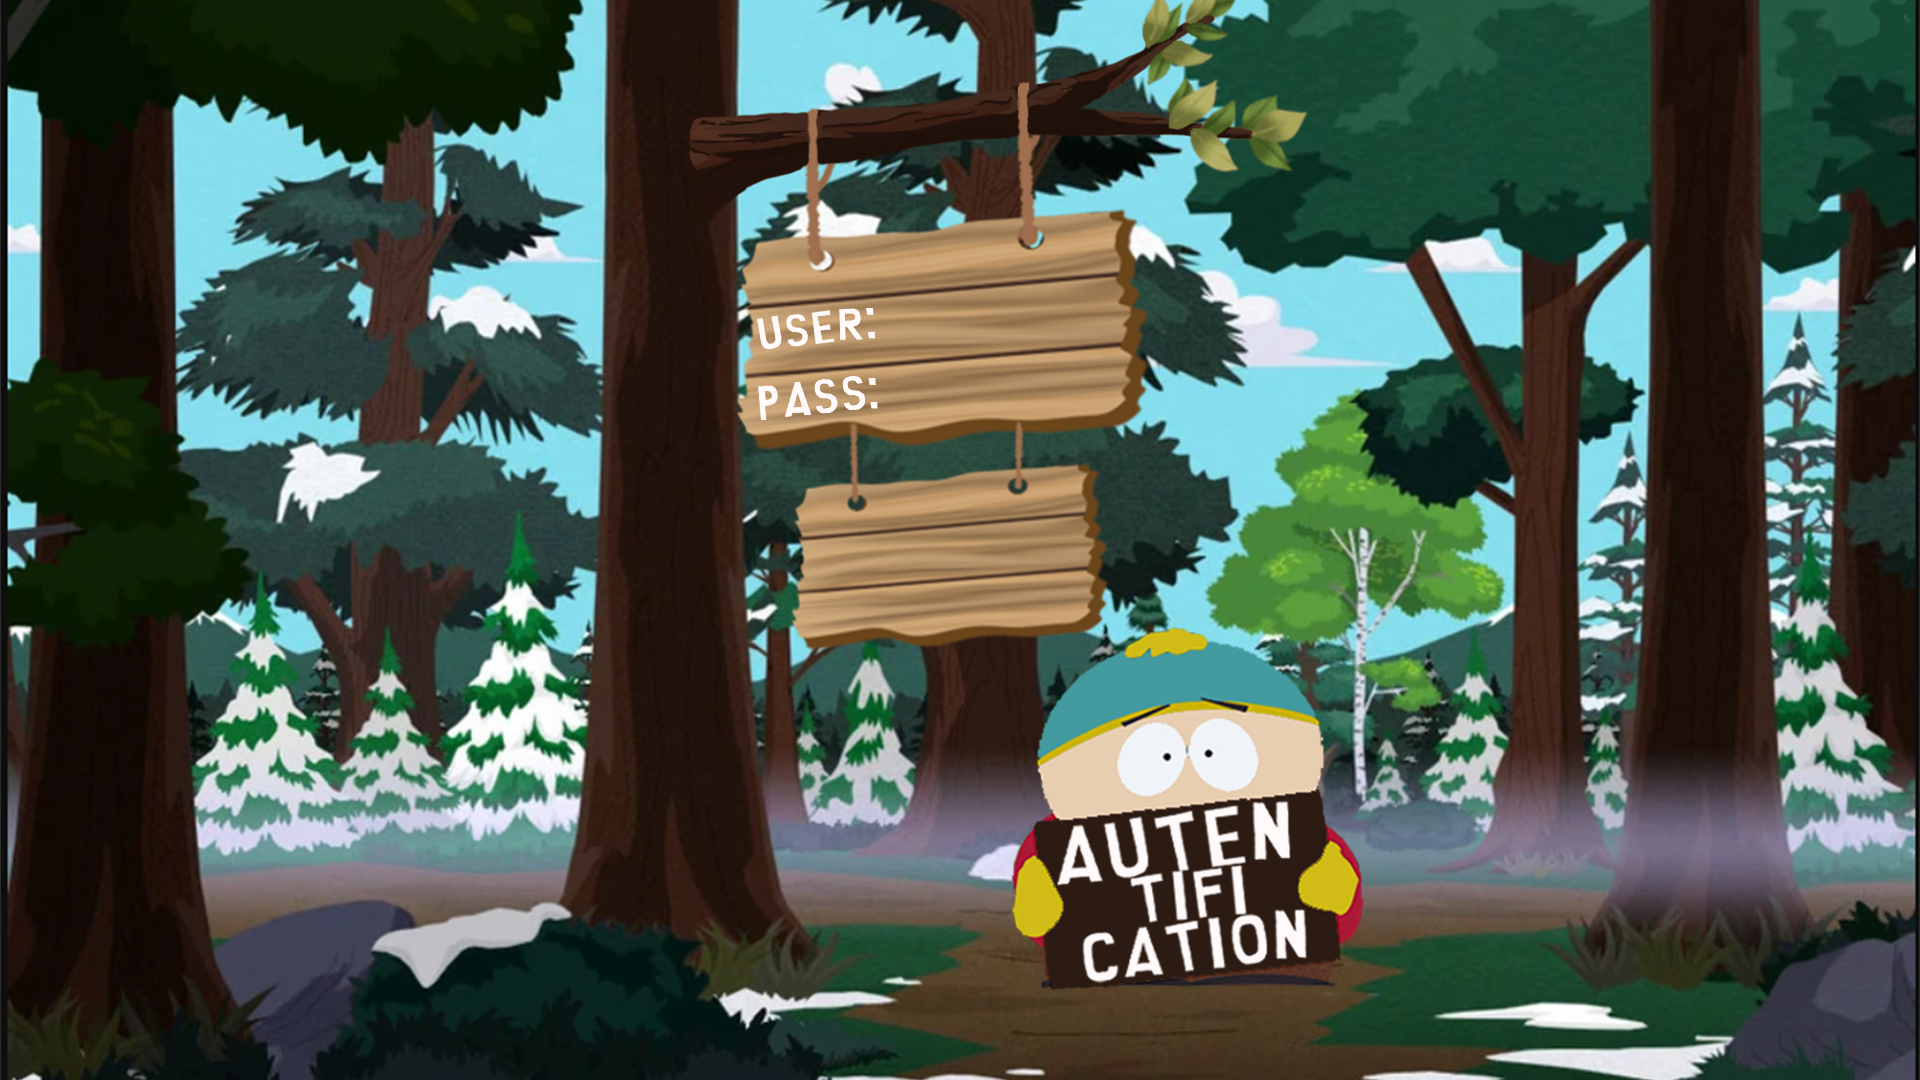
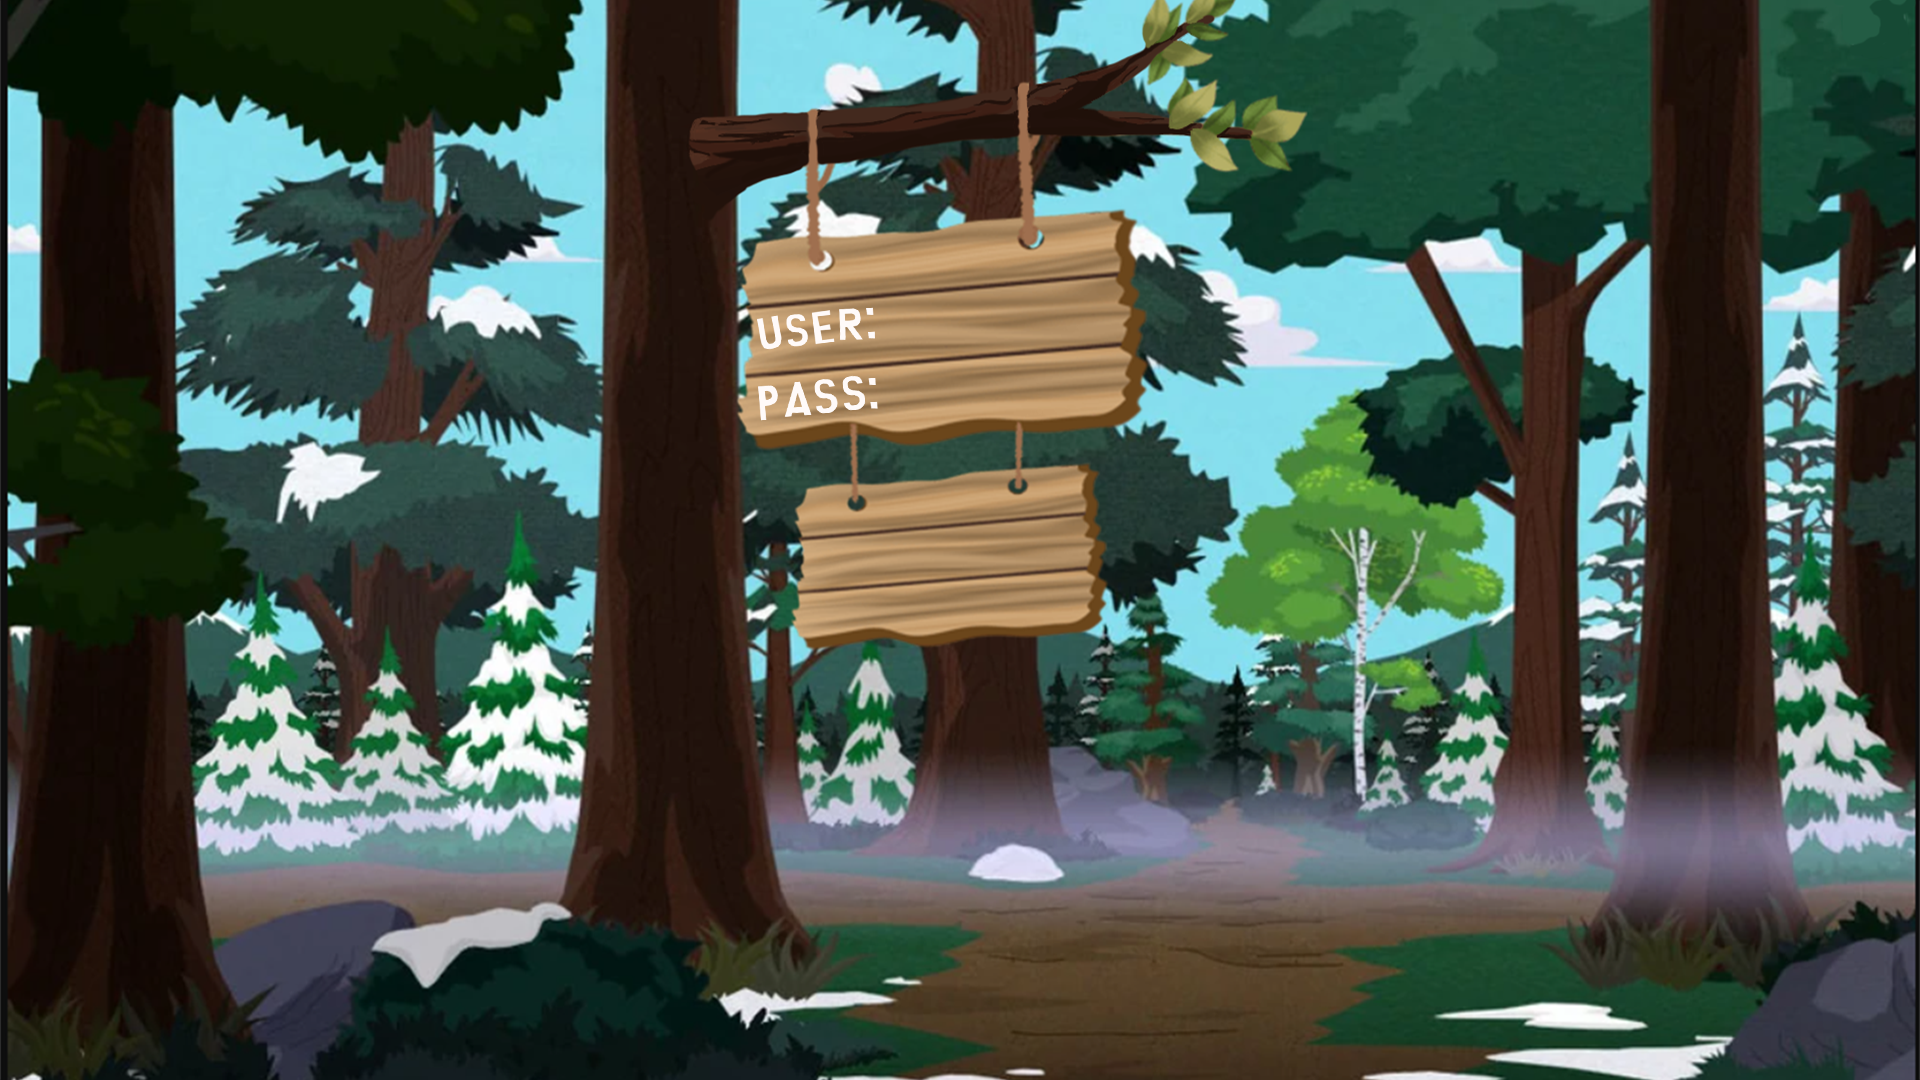
pequeños avances de algunas ideas e insercion de imagenes para usar proximamente

Changed region(s): [[0.5, 0.5806, 0.7188, 0.9167]]

diff --git a/src/main/resources/templates/credentials/LoginCredentials.html b/src/main/resources/templates/credentials/LoginCredentials.html
@@ -3,9 +3,9 @@
 <head>
     <meta charset="UTF-8">
     <link rel="stylesheet" th:href="@{css/bootstrap.min.css}">
-    <link rel="stylesheet" th:href="@{css/style_Login.css}">
+    <link rel="stylesheet" th:href="@{css/style_LoginUser.css}">
     <meta name="viewport" content="width=device-width, initial-scale=1">
-    <title>Iniciar sesion</title>
+    <title>Sign In</title>
 </head>
 <body class="body_login--background">
 <div class="container">
@@ -31,7 +31,7 @@
                 <div class="row">
                     <div class="col-sm-2">
                             <button type="submit" >
-                                <img th:src="@{images/saveUserButton.png}" id="body_login--buttonRotation" class="body_login--button">
+                                <img th:src="@{images/signInText.png}" id="body_login--buttonRotation" class="body_login--button">
                             </button>
 
                     </div>
@@ -41,6 +41,5 @@
         </div>
     </div>
 </div>
-
 </body>
 </html>

diff --git a/src/main/resources/static/css/style_loginUser.css b/src/main/resources/static/css/style_loginUser.css
@@ -1,5 +1,5 @@
 .body_login--background{
-    background-image: url('../images/panelAutentification.png');
+    background-image: url('../images/backgroundLogin.png');
     background-repeat: no-repeat;
     background-size: 100% 100%;
     background-attachment: fixed;
@@ -8,27 +8,30 @@
 
 #user{
     position: fixed;
-    top:37%;
-    left:42%;
-    width:33%;
+    top:25.5%;
+    left:45%;
+    width:16%;
+    rotate: 356deg;
+
 }
 
 #pass{
     position: fixed;
-    top:50%;
-    left:42%;
-    width:33%;
+    top:32%;
+    left:45%;
+    width:16%;
+    rotate: 356deg;
 }
 
 .body_login--button{
     position: fixed;
-    top: 67%;
-    left: 42.5%;
+    top: 48.5%;
+    left: 43%;
     width: 12%;
 }
 
 #body_login--buttonRotation{
-    rotate: 354deg;
+    rotate: 356deg;
 }
 
 .form-control{

diff --git a/src/main/resources/templates/credentials/LoginCredentialsAdmin.html b/src/main/resources/templates/credentials/LoginCredentialsAdmin.html
@@ -2,7 +2,8 @@
 <html lang="es" xmlns:th="http://www.thymeleaf.org">
 <head>
     <meta charset="UTF-8">
-    <title>Title</title>
+    <link rel="stylesheet" th:href="@{css/style_loginAdmin.css}">
+    <title>Administrador autentification</title>
 </head>
 <body>
 <div class="col-sm-12 col-md-12 col-lg-12 col-xl-12">
@@ -21,7 +22,7 @@
         <div class="row">
             <div class="col-sm-2">
                 <button type="submit" >
-                    <img th:src="@{images/saveUserButton.png}" id="body_login--buttonRotation" class="body_login--button">
+                    <img th:src="@{images/signInText.png}">
                 </button>
 
             </div>

diff --git a/src/main/resources/templates/admin/Menu.html b/src/main/resources/templates/admin/Menu.html
@@ -7,9 +7,9 @@
 </head>
 <body>
 <!-- Se supone que asi podriamos elegir que entidades vera el administrador -->
-<div class="btn-group" role="group" aria-label="Basic example">
-    <a type="button" class="btn btn-primary" th:href="@{/adminChattelShow}">Control de Usuario</a>
-    <a type="button" class="btn btn-primary" >Control de Personaje</a>
-</div>
+    <div class="btn-group" role="group" aria-label="Basic example">
+        <a type="button" class="btn btn-primary" th:href="@{/adminChattelShow}">Control de Usuario</a>
+        <a type="button" class="btn btn-primary" >Control de Personaje</a>
+    </div>
 </body>
 </html>

diff --git a/src/main/resources/static/css/style_loginAdmin.css b/src/main/resources/static/css/style_loginAdmin.css
@@ -1,0 +1,5 @@
+button
+{
+    background-color: transparent;
+    border: none;
+}
